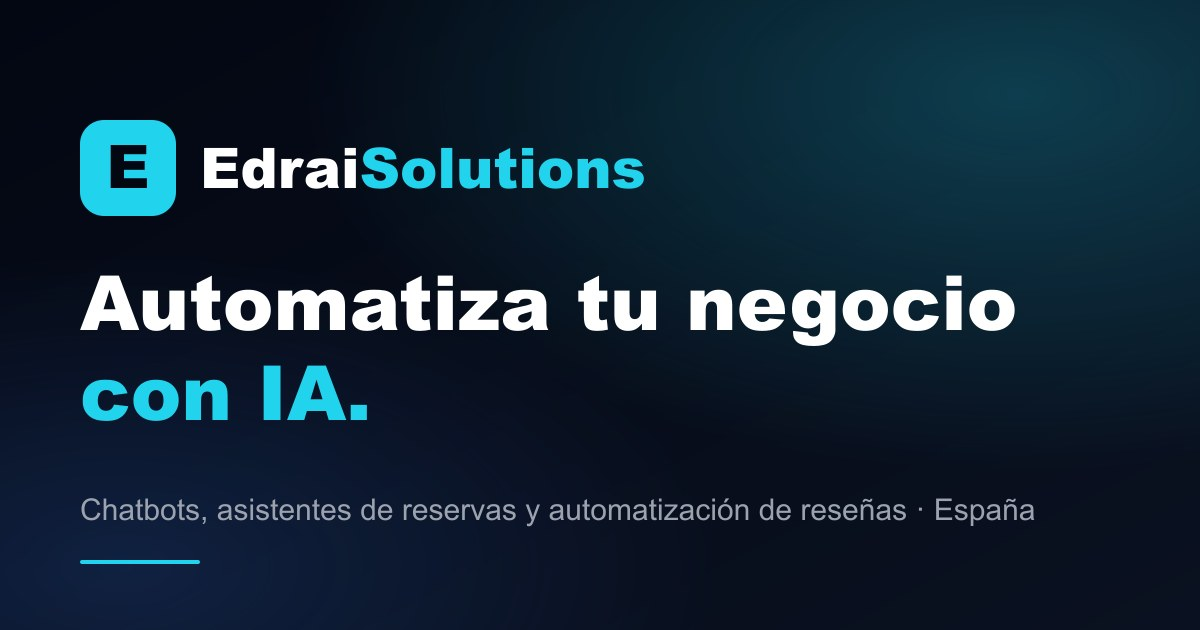
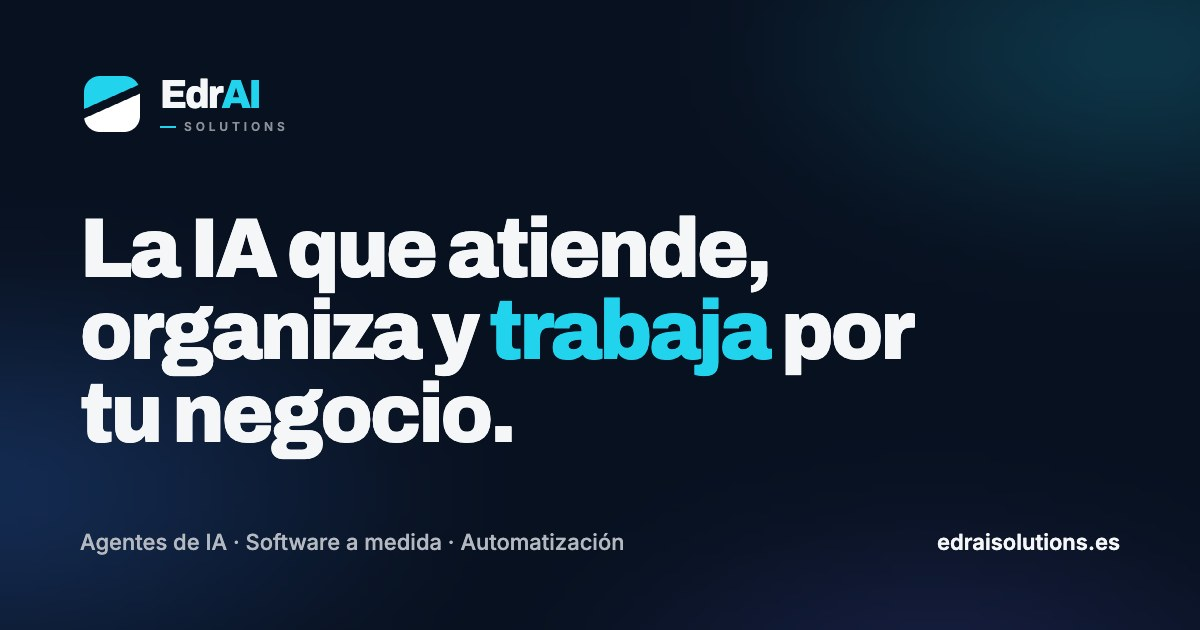
feat(diseño): fondo navy con aurora lenta y palabra clave en cian
- Fondo navy #081120 en toda la web con una capa de aurora (cian, azul,
  índigo) fija y en deriva lenta; quieta con movimiento reducido.
- Superficies, bordes, nav, chat flotante y theme-color pasan a navy.
- Una palabra clave por titular en cian (.hl).
- Nueva imagen OG con el símbolo Corte y el titular actual.
- DESIGN.md y .impeccable actualizados con las nuevas reglas.

diff --git a/src/styles/global.css b/src/styles/global.css
@@ -7,17 +7,17 @@
   --font-sans: 'Inter Variable', 'Inter', system-ui, sans-serif;
   --font-display: 'Archivo Variable', 'Archivo', system-ui, sans-serif;
   --color-brand: #22d3ee;
-  --color-ink: #05070b;
+  --color-ink: #081120;
 }
 
 :root {
-  /* Ground and surfaces: near-black with a navy cast (hybrid of prod #030712 and the prototype), three steps */
-  --bg: #05070b;
-  --surface-1: #0e0f12;
-  --surface-2: #14161a;
-  --surface-3: #1b1e23;
-  --line: rgba(255, 255, 255, 0.07);
-  --line-strong: rgba(255, 255, 255, 0.12);
+  /* Ground and surfaces: deep navy ("Aurora lenta", chosen by Ricardo 20 oct 2026), three steps */
+  --bg: #081120;
+  --surface-1: #0e1a2d;
+  --surface-2: #132238;
+  --surface-3: #192b44;
+  --line: rgba(160, 200, 255, 0.08);
+  --line-strong: rgba(160, 200, 255, 0.14);
 
   --text: #f5f6f7;
   --text-2: #b4b9c1;
@@ -39,7 +39,7 @@
   --gutter: clamp(16px, 4vw, 40px);
   --section: clamp(88px, 14vh, 160px);
 
-  /* Glass: translucent surfaces over the page's light fields (the web's brand face per design_v3 §1) */
+  /* Glass: translucent surfaces over the page's aurora (the web's brand face per design_v3 §1) */
   --glass: rgba(255, 255, 255, 0.035);
   --glass-strong: rgba(255, 255, 255, 0.055);
   --glass-line: rgba(255, 255, 255, 0.09);
@@ -66,12 +66,7 @@ html {
 
 body {
   margin: 0;
-  background:
-    radial-gradient(900px 600px at 82% -4%, rgba(34, 211, 238, 0.13), transparent 62%),
-    radial-gradient(800px 700px at -8% 34%, rgba(14, 165, 233, 0.08), transparent 60%),
-    radial-gradient(900px 700px at 105% 62%, rgba(34, 211, 238, 0.07), transparent 62%),
-    radial-gradient(1000px 600px at 30% 96%, rgba(14, 165, 233, 0.08), transparent 60%),
-    var(--bg);
+  background: var(--bg);
   color: var(--text);
   font: 400 16px/1.6 var(--font-body);
   font-feature-settings: 'cv11', 'ss01';
@@ -205,3 +200,24 @@ input, textarea { caret-color: var(--brand); }
   :root { --section: 72px; }
   .section-tight { padding-block: 56px; }
 }
+
+/* Aurora: three blurred colour fields behind every page, drifting very slowly.
+   Fixed to the viewport so every section gets colour, not only the top of the page. */
+body::before {
+  content: ''; position: fixed; inset: -20%; z-index: -1; pointer-events: none;
+  background:
+    radial-gradient(36% 30% at 78% 18%, rgba(34, 211, 238, 0.16), transparent 70%),
+    radial-gradient(40% 36% at 18% 52%, rgba(59, 130, 246, 0.2), transparent 70%),
+    radial-gradient(34% 30% at 64% 86%, rgba(99, 102, 241, 0.14), transparent 70%);
+  filter: blur(40px);
+  animation: auroraDrift 48s ease-in-out infinite alternate;
+}
+@keyframes auroraDrift {
+  0% { transform: translate3d(0, 0, 0) rotate(0deg) scale(1); }
+  50% { transform: translate3d(-4%, 3%, 0) rotate(8deg) scale(1.08); }
+  100% { transform: translate3d(3%, -2%, 0) rotate(-6deg) scale(1.02); }
+}
+@media (prefers-reduced-motion: reduce) { body::before { animation: none; } }
+
+/* Key word of a headline in cyan: one per heading at most, never in body copy */
+.hl { color: var(--brand); }

diff --git a/src/components/react/FloatingChatWidget.tsx b/src/components/react/FloatingChatWidget.tsx
@@ -142,7 +142,7 @@ Inclúyelo UNA SOLA VEZ, cuando ya tengas todos los datos completos.`,
     <div className="fixed bottom-6 right-6 z-[9999] flex flex-col items-end font-sans">
       {/* Chat Window */}
       {isOpen && (
-        <div className="mb-6 w-[380px] sm:w-[420px] h-[600px] bg-gray-950/80 backdrop-blur-2xl rounded-3xl shadow-[0_20px_50px_rgba(0,0,0,0.5)] flex flex-col overflow-hidden border border-white/10 animate-in slide-in-from-bottom-8 fade-in duration-500">
+        <div className="mb-6 w-[380px] sm:w-[420px] h-[600px] bg-[#0b1626]/85 backdrop-blur-2xl rounded-3xl shadow-[0_20px_50px_rgba(0,0,0,0.5)] flex flex-col overflow-hidden border border-white/10 animate-in slide-in-from-bottom-8 fade-in duration-500">
           
           {/* Header */}
           <div className="relative bg-white/[0.04] px-6 py-5 flex items-center justify-between border-b border-white/10">

diff --git a/DESIGN.md b/DESIGN.md
@@ -1,13 +1,13 @@
 ---
 name: Edrai Solutions
-description: AI agents, custom software and automation for Spanish service SMBs, shown working on a near-black product stage.
+description: AI agents, custom software and automation for Spanish service SMBs, shown working on a deep navy product stage lit by a slow aurora.
 colors:
-  ink-ground: "#05070b"
-  surface-1: "#0e0f12"
-  surface-2: "#14161a"
-  surface-3: "#1b1e23"
-  line: "rgba(255, 255, 255, 0.07)"
-  line-strong: "rgba(255, 255, 255, 0.12)"
+  ink-ground: "#081120"
+  surface-1: "#0e1a2d"
+  surface-2: "#132238"
+  surface-3: "#192b44"
+  line: "rgba(160, 200, 255, 0.08)"
+  line-strong: "rgba(160, 200, 255, 0.14)"
   glass-line: "rgba(255, 255, 255, 0.09)"
   text: "#f5f6f7"
   text-2: "#b4b9c1"
@@ -20,6 +20,8 @@ colors:
   cyan-tint: "rgba(34, 211, 238, 0.1)"
   cyan-line: "rgba(34, 211, 238, 0.35)"
   live-green: "#4ade80"
+  aurora-blue: "#3b82f6"
+  aurora-indigo: "#6366f1"
 typography:
   display:
     fontFamily: "Archivo Variable, Archivo, system-ui, sans-serif"
@@ -135,33 +137,34 @@ components:
 
 **Creative North Star: "The Lit Control Room"**
 
-A near-black stage with a navy cast where the product works in plain sight. The page is dark and quiet so that the things that are alive (the agent console, the film, the reel, the live chat) carry the light. Cyan is the colour of the agent itself: it marks the one action to take, the live state and the thin lines that connect things, and nothing else. The craft bar is the category standard at full finish (linear.app, sierra.ai, decagon.ai): restrained, product-led, legible.
+A deep navy stage where the product works in plain sight. The page is dark and calm, never flat black, so that the things that are alive (the agent console, the film, the reel, the live chat) carry the light. Cyan is the colour of the agent itself: it marks the one action to take, the live state and the thin lines that connect things, and nothing else. The craft bar is the category standard at full finish (linear.app, sierra.ai, decagon.ai): restrained, product-led, legible.
 
-Surfaces are glass cards floating over four very soft cyan and sky radial light fields painted on the body. Depth comes from translucency, a hairline top edge and long, low, black ambient shadows, never from colour fills. Motion is part of the world: content rises once as it enters, the film pins and grows as you scroll, the reel follows the video, and navigating between the home and a service page morphs the pillar title and icon in place.
+Surfaces are glass cards floating over a slow aurora: three blurred fields of cyan, blue and indigo fixed behind every page, drifting over a 48-second cycle. Depth comes from translucency, a hairline top edge and long, low, black ambient shadows, never from colour fills. Motion is part of the world: content rises once as it enters, the film pins and grows as you scroll, the reel follows the video, and navigating between the home and a service page morphs the pillar title and icon in place.
 
-This world is a user-pinned hybrid: the production site's rich components inside the multi-page prototype's restraint. It explicitly refuses production's noise (particles, aurora, canvas beams, marquee, uppercase black headings).
+This world is a user-pinned hybrid: the production site's rich components inside the multi-page prototype's restraint. It explicitly refuses production's noise (particles, canvas beams, moving lines and dots, marquee, uppercase black headings). The one ambient layer it keeps is the slow aurora, chosen by the owner on 20 Oct 2026 because flat black read as too basic.
 
 **Key Characteristics:**
-- Near-black navy ground with three greyscale surfaces and hairline white borders.
+- Deep navy ground with three navy surfaces and cool hairline borders, under a slow aurora.
 - One accent, cyan, used as a signal and never as a field.
-- Archivo heavy, slightly condensed, sentence case, tight negative tracking; Inter for everything you read.
+- Archivo heavy, slightly condensed, sentence case, tight negative tracking, with one key word per heading in cyan; Inter for everything you read.
 - Glass cards (20px radius) with a cursor-following cyan glow on hover.
 - Motion that explains: expo-out reveals once, scroll-pinned film, video-synced reel, shared-element page transitions.
 - Illustrative data is always labelled; real figures come from one monthly source.
 
 ## Colors
 
-A dark, nearly monochrome palette with a single electric cyan reserved for the agent and the next step.
+A deep navy palette with a single electric cyan reserved for the agent, the next step and the key word of a heading.
 
 ### Primary
-- **Agent Cyan** (agent-cyan): primary button fill, solid icon tile, progress bars on the film and reel, the active-nav underline, the rule in the logo lockup, focus outlines, selection, caret. Its tint and line variants (cyan-tint, cyan-line) draw icon tiles, active reel steps and hovered card borders.
+- **Agent Cyan** (agent-cyan): the key word of a heading (see The Key Word Rule), primary button fill, solid icon tile, progress bars on the film and reel, the active-nav underline, the rule in the logo lockup, focus outlines, selection, caret. Its tint and line variants (cyan-tint, cyan-line) draw icon tiles, active reel steps and hovered card borders.
 - **Bright Cyan** (cyan-bright): hover state of the primary button and the glyph colour inside outlined icon tiles.
-- **Deep Sky** (cyan-deep): only inside the body's ambient light fields, alternating with Agent Cyan so the glow has temperature.
+- **Deep Sky** (cyan-deep): reserved for gradients and hover temperature; never a flat fill.
 - **Cyan Ink** (cyan-ink): text and icons placed on a cyan fill. Never plain black.
 
 ### Neutral
-- **Navy Ink Ground** (ink-ground): the page background everywhere, behind the radial light fields; also the nav glass base at 72% and the mobile sheet.
-- **Surface 1 / 2 / 3** (surface-1, surface-2, surface-3): three steps of tonal lift. Surface 2 is the hover and active state for quiet buttons and nav links; Surface 3 fills small inline icon chips and the scrollbar thumb.
+- **Navy Ink Ground** (ink-ground): the page background everywhere, behind the aurora; also the nav glass base at 72%, the reel caption base and the mobile sheet.
+- **Aurora Blue / Aurora Indigo** (aurora-blue, aurora-indigo): only inside the aurora layer (blue at 20%, indigo at 14%, Agent Cyan at 16%, blurred 40px). Never on components.
+- **Surface 1 / 2 / 3** (surface-1, surface-2, surface-3): three steps of navy tonal lift. Surface 2 is the hover and active state for quiet buttons and nav links; Surface 3 fills small inline icon chips and the scrollbar thumb.
 - **Hairline / Strong Hairline / Glass Line** (line, line-strong, glass-line): dividers, quiet button and burger borders, card and frame borders.
 - **Text, Text 2, Muted, Faint** (text, text-2, muted, faint): headings and primary copy; ledes, nav links and list copy; meta and demo tags; the quietest captions.
 
@@ -173,7 +176,9 @@ A dark, nearly monochrome palette with a single electric cyan reserved for the a
 
 **The One Cyan Action Rule.** A cyan-filled button always means one thing: request the free diagnosis (the nav CTA and the hero CTA are the same action). Every other action uses the quiet (outlined) or light button.
 
-**The Light Fields Rule.** Atmosphere comes only from the four fixed radial gradients on the body (cyan and sky at 7 to 13% opacity). Do not add per-section glows, auroras or particle layers.
+**The One Aurora Rule.** Atmosphere comes only from the single aurora layer (`body::before`, fixed, behind everything, 48 s drift, still under reduced motion). Do not add per-section glows, a second animated layer, particles, lines or dots. Never return to flat black: the ground is navy.
+
+**The Key Word Rule.** A heading (H1 or H2) may set one word or short phrase in Agent Cyan with `.hl`: the word that carries the promise ("trabaja", "Pruébalo.", "sus números"). One per heading at most; never in ledes, body copy, buttons or cards; FAQ and legal headings stay white. Solid colour only, no gradient text.
 
 ## Typography
 
@@ -262,7 +267,7 @@ Astro View Transitions with a persistent nav and chat. Leaving content fades up 
 ## Do's and Don'ts
 
 ### Do:
-- **Do** keep the ground at Navy Ink with only the four body light fields for atmosphere.
+- **Do** keep the ground at Navy Ink with the single slow aurora as the only atmosphere, and mark at most one key word per heading in cyan.
 - **Do** use Agent Cyan for the diagnosis action, icon tiles, live state, progress and lines, and Cyan Ink for anything sitting on it.
 - **Do** set headings in Archivo 800 to 850, sentence case, negative tracking, balanced wrap.
 - **Do** build containers as glass cards: 20px radius, hairline glass border, inset top highlight, long soft black drop, cursor glow on hover.

diff --git a/.impeccable/surfaces/src-pages-index-astro.md b/.impeccable/surfaces/src-pages-index-astro.md
@@ -15,7 +15,7 @@ History: the 13 Oct prototype (canon card, seed a8a8418d) was rejected by Ricard
 
 THESIS: A hybrid pinned by Ricardo. Production's rich components (Flow + Console hero, bento cards with icon tiles and cursor glow, live chat demos, testimonials, process cards, team photos, form) inside the prototype's multi-page structure and restraint. Video is shown inline, never behind a modal. Refuses production's noise (particles, aurora, canvas beams, marquee, uppercase black headings) and the prototype's sparseness.
 
-OWN-WORLD: Near-black ground with a navy cast (#05070b), three greyscale surfaces, hairline borders, glass cards. Cyan #22d3ee only as accent: primary action, icon tiles, live state, lines. Never a cyan full-bleed background. Archivo 800 sentence-case display, Inter body. Corte mark.
+OWN-WORLD: Deep navy ground (#081120) under a single slow aurora (cyan, blue, indigo; owner choice 20 Oct 2026), three navy surfaces, hairline borders, glass cards. Cyan #22d3ee only as accent: primary action, icon tiles, live state, lines. Never a cyan full-bleed background. Archivo 800 sentence-case display with one key word per heading in cyan, Inter body. Corte mark.
 
 STORY: The visitor sees the agent working (console), watches the 45 s film as they scroll, understands the three pillars, learns chatbot vs automation vs agent from a vertical reel, tries the real Barranco agent, trusts the monthly numbers, books the diagnosis.
 
